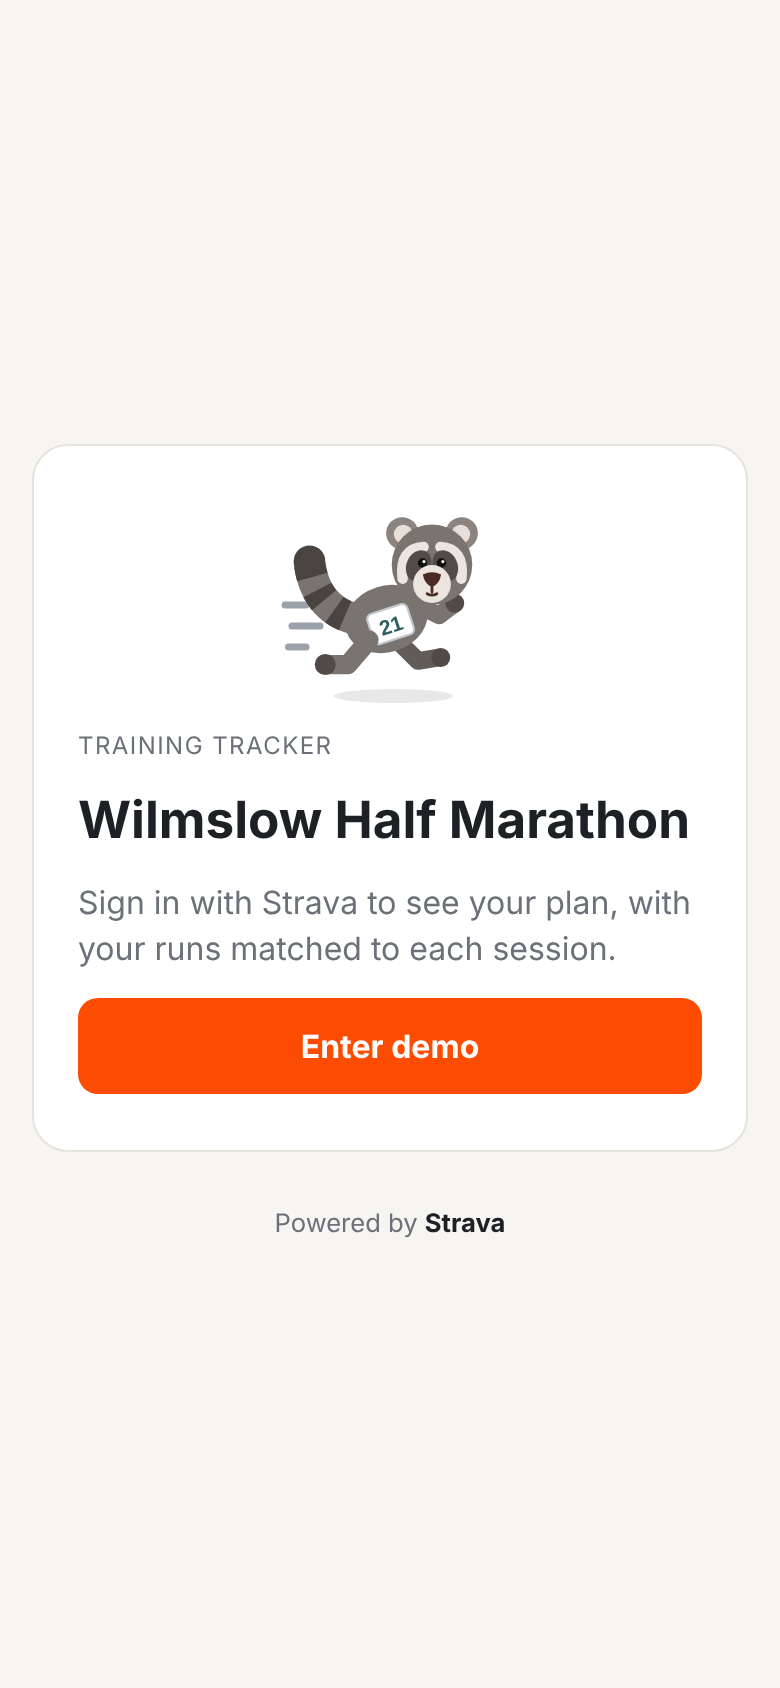
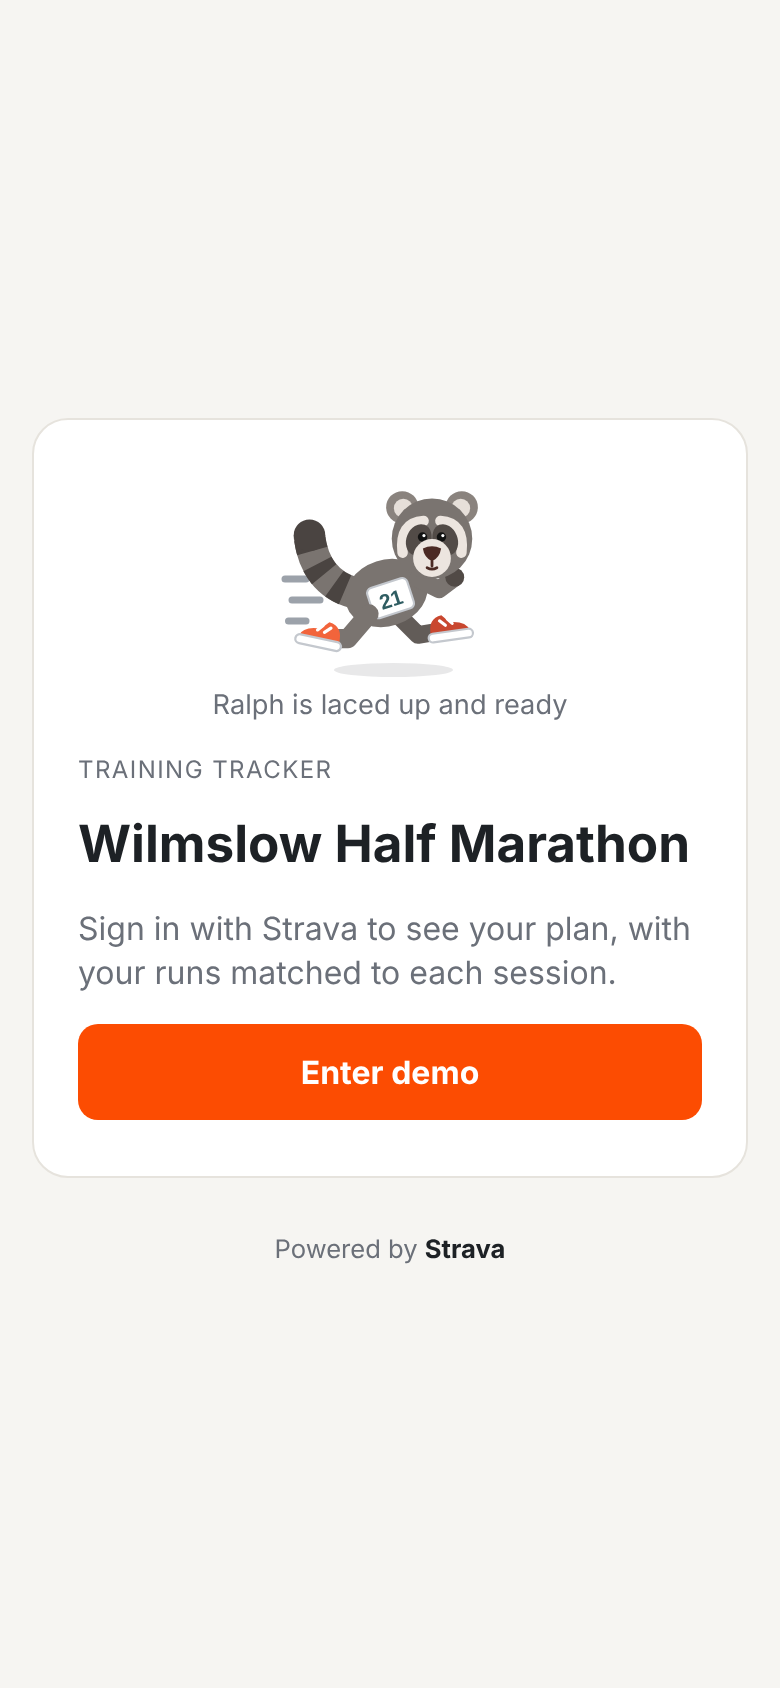
Give Ralph running shoes and name him in the app
- Orange running shoes on both feet
- Image alt text and tooltip name him
- Sign-in caption: "Ralph is laced up and ready"
- Progress page opens with a "Ralph says" speech bubble based on runs
  done so far (lib/ralph.ts, with tests)

Claude-Session: https://claude.ai/code/session_017WMbTeU72S8pAimoYAfmya

Changed region(s): [[0.0923, 0.2773, 0.9231, 0.6777], [0.3385, 0.7085, 0.6462, 0.7701]]

diff --git a/tests/ralph.test.ts b/tests/ralph.test.ts
@@ -1,0 +1,29 @@
+import { describe, expect, it } from "vitest";
+import { ralphSays } from "../lib/ralph";
+
+describe("ralphSays", () => {
+  it("cheers you on before the first run is due", () => {
+    const message = ralphSays({ total: 40, due: 0, done: 0, partial: 0 });
+    expect(message).toMatch(/first run/);
+  });
+
+  it("is impressed at 90% or more of due runs", () => {
+    const message = ralphSays({ total: 40, due: 10, done: 8, partial: 1 });
+    expect(message).toBe("9 of 10 runs done so far. Ralph is seriously impressed!");
+  });
+
+  it("says you're on track from 70%", () => {
+    const message = ralphSays({ total: 40, due: 10, done: 7, partial: 0 });
+    expect(message).toMatch(/on track/);
+  });
+
+  it("encourages you when behind", () => {
+    const message = ralphSays({ total: 40, due: 10, done: 3, partial: 1 });
+    expect(message).toMatch(/every run counts/);
+  });
+
+  it("celebrates when every run is done", () => {
+    const message = ralphSays({ total: 40, due: 40, done: 39, partial: 1 });
+    expect(message).toMatch(/speechless/);
+  });
+});

diff --git a/app/components/ProgressDashboard.tsx b/app/components/ProgressDashboard.tsx
@@ -4,6 +4,7 @@ import Link from "next/link";
 import { useCallback, useEffect, useState } from "react";
 import { formatKm, formatPace, formatShortDate, stravaUrl } from "@/lib/format";
 import type { ProgressResponse } from "@/lib/progress";
+import { ralphSays } from "@/lib/ralph";
 import {
   halfMarathons,
   seasonStats,
@@ -52,10 +53,7 @@ export default function ProgressDashboard() {
       <Link href="/" className="back-link">
         ‹ This week
       </Link>
-      <div className="brand">
-        <RaccoonLogo size={40} />
-        <h1>How it’s going</h1>
-      </div>
+      <h1>How it’s going</h1>
     </header>
   );
 
@@ -81,6 +79,11 @@ export default function ProgressDashboard() {
     <main className="page">
       {header}
       {error && <ErrorCard error={error} onRetry={load} />}
+
+      <section className="ralph-says" aria-label="Ralph says">
+        <RaccoonLogo size={64} />
+        <p className="speech">{ralphSays(stats.runs)}</p>
+      </section>
 
       <section className="card panel">
         <h2>Runs done</h2>

diff --git a/lib/ralph.ts b/lib/ralph.ts
@@ -1,0 +1,22 @@
+// What Ralph, the app's raccoon mascot, says about your progress.
+
+import type { RunCounts } from "./stats";
+
+/** A short line of encouragement from Ralph, based on runs done so far. */
+export function ralphSays(runs: RunCounts): string {
+  const ran = runs.done + runs.partial;
+  const share = runs.due > 0 ? ran / runs.due : 0;
+  let message: string;
+  if (runs.total > 0 && ran >= runs.total) {
+    message = "Every single run done. Ralph is speechless (and a bit emotional).";
+  } else if (runs.due === 0) {
+    message = "Shoes laced, bib pinned. Ralph is ready for your first run!";
+  } else if (share >= 0.9) {
+    message = `${ran} of ${runs.due} runs done so far. Ralph is seriously impressed!`;
+  } else if (share >= 0.7) {
+    message = `${ran} of ${runs.due} runs done so far. Ralph reckons you're on track.`;
+  } else {
+    message = `${ran} of ${runs.due} runs done so far. Ralph says every run counts, so let's get the next one in.`;
+  }
+  return message;
+}

diff --git a/app/globals.css b/app/globals.css
@@ -1237,6 +1237,40 @@ a {
   white-space: nowrap;
 }
 
-.signin-logo {
-  margin: -8px auto -4px;
+.signin-mascot {
+  margin: -8px 0 0;
+  display: grid;
+  justify-items: center;
+  gap: 2px;
+}
+
+.ralph-says {
+  display: flex;
+  align-items: center;
+  gap: 10px;
+  margin-bottom: 12px;
+}
+
+.speech {
+  position: relative;
+  flex: 1;
+  background: var(--card);
+  border: 1px solid var(--line);
+  border-radius: var(--radius);
+  padding: 10px 14px;
+  font-size: 0.92rem;
+}
+
+/* Bubble tail pointing at Ralph. */
+.speech::before {
+  content: "";
+  position: absolute;
+  left: -7px;
+  top: 50%;
+  width: 12px;
+  height: 12px;
+  background: var(--card);
+  border-left: 1px solid var(--line);
+  border-bottom: 1px solid var(--line);
+  transform: translateY(-50%) rotate(45deg);
 }

diff --git a/app/components/RaccoonLogo.tsx b/app/components/RaccoonLogo.tsx
@@ -1,4 +1,4 @@
-/** The app's mascot: Ralph the raccoon, running in a race bib. Decorative, so no alt text. */
+/** Ralph, the app's raccoon mascot, running in his race bib and shoes. */
 export default function RaccoonLogo({
   size,
   className = "",
@@ -9,7 +9,8 @@ export default function RaccoonLogo({
   const logo = (
     <img
       src="/raccoon.svg"
-      alt=""
+      alt="Ralph the raccoon"
+      title="Ralph"
       width={size}
       height={size}
       className={`raccoon ${className}`.trim()}

diff --git a/app/components/SignIn.tsx b/app/components/SignIn.tsx
@@ -22,7 +22,10 @@ export default function SignIn({
   const page = (
     <main className="signin">
       <div className="signin-card">
-        <RaccoonLogo size={112} className="signin-logo" />
+        <figure className="signin-mascot">
+          <RaccoonLogo size={112} />
+          <figcaption className="muted small">Ralph is laced up and ready</figcaption>
+        </figure>
         <p className="eyebrow">Training tracker</p>
         <h1>Wilmslow Half Marathon</h1>
         <p className="muted">

diff --git a/README.md b/README.md
@@ -26,7 +26,10 @@ matched to planned sessions automatically.
 - **Progress page.** A dial of runs done out of runs planned (with a tick for how many
   were due by today), cumulative distance run against the plan, and the fastest
   intervals, fastest tempo and longest run so far, plus a row of medals counting
-  how many half marathons' worth you've run. Paces are whole-run averages,
+  how many half marathons' worth you've run.
+- **Ralph.** The app's mascot, a raccoon in a race bib and running shoes
+  (`public/raccoon.svg`; his head is the favicon). He comments on your progress at the
+  top of the progress page (`lib/ralph.ts`). Paces are whole-run averages,
   because only Strava's activity summaries are fetched.
 - **Download / upload.** Download the plan with `status` and `actual` filled in, edit
   it elsewhere (e.g. with Claude), and upload it again. Progress is stored by session
